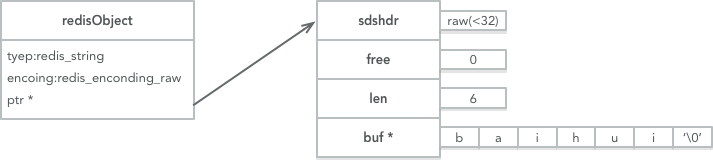
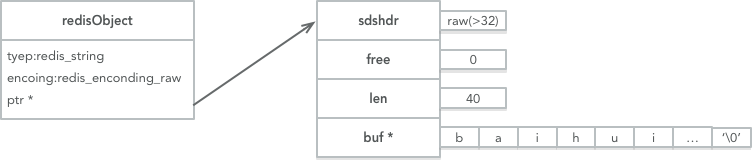
Updates dui-xiang/zi-fu-chuan-dui-xiang.md
Auto commit by GitBook Editor

diff --git a/dui-xiang/zi-fu-chuan-dui-xiang.md b/dui-xiang/zi-fu-chuan-dui-xiang.md
@@ -1,5 +1,8 @@
 **字符串对象的编码(encoding)可以是int,raw或者embstr其中之一**
 
+
+* **encoding是如何选择不同的编码？**
+
 如数字：
 
 ```
@@ -14,10 +17,13 @@ redisObject对象属性值 ![](/assets/redis-对象-int.png)
 如字符串:
 
 ```
-set a baihui 
+set a "baihui 123456789abcdsdfefgasd 123456789abcdsdf" 
 ok
-```
- ![](/assets/redis-对象-raw.png)
- 
+``` 
+![](/assets/redis-对象-raw.png)
  
 > 其中type值不变，但是encoding和pro在变，变的只是底层数据结构不同，但是他们都属于字符串对象
+
+
+
+
